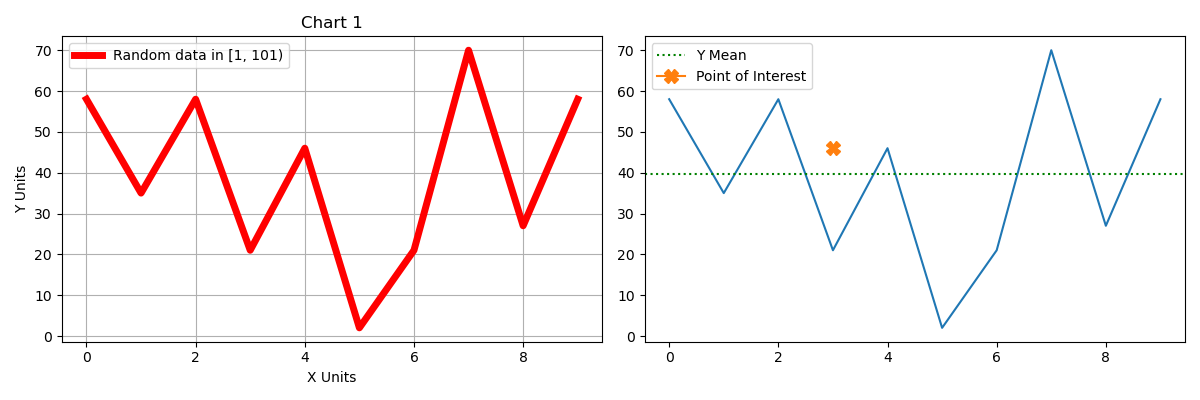
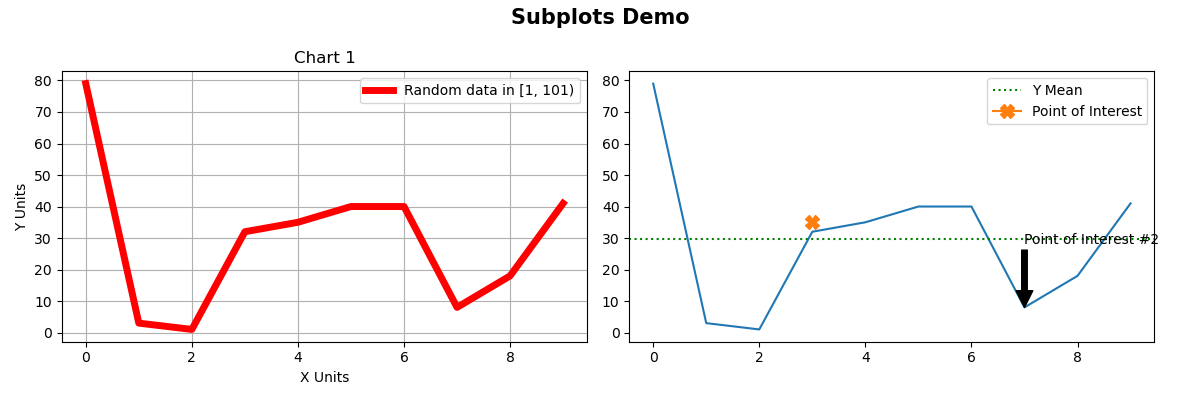
tuesday warmup task

diff --git a/plotting_demo_s2.py b/plotting_demo_s2.py
@@ -14,6 +14,8 @@ def plot_data(x, y):
     # let's have 2 charts in one "figure"
     # the 2 charts will be side by side in one row
     fig, axes = plt.subplots(1, 2, figsize=(12, 4)) # 12" width x 4" height
+    # tuesday 11/17 warm-up task #1
+    fig.suptitle("Subplots Demo", fontsize=15, fontweight="bold")
 
     # chart 1: basic
     ax = axes[0]
@@ -29,6 +31,9 @@ def plot_data(x, y):
     ax = axes[1]
     ax.plot(x, y)
     ax.plot([x[4]], y[4], label="Point of Interest", marker="X", ms=10)
+    # tuesday 11/17 warm-up task #2
+    ax.annotate("Point of Interest #2", xy=(x[7], y[7]), 
+                xytext=(x[7], y[7] + 20), arrowprops={"facecolor": "black"})
     ax.axhline(y.mean(), color="cyan", lw=5, ls="--", label="Y Mean")
     ax.legend()
 

diff --git a/plotting_demo_s1.py b/plotting_demo_s1.py
@@ -13,6 +13,8 @@ import matplotlib.pyplot as plt
 def plot_data(x, y):
     # let's have one figure with 2 charts in a row
     fig, axes = plt.subplots(1, 2, figsize=(12, 4)) # 12" width x 4" height
+    # tuesday 11/17 warm-up task #1
+    fig.suptitle("Subplots Demo", fontsize=15, fontweight="bold")
 
     # chart 1: basic
     ax = axes[0]
@@ -29,6 +31,9 @@ def plot_data(x, y):
     ax.plot(x, y)
     ax.axhline(y.mean(), label="Y Mean", ls=":", color="green")
     ax.plot(x[3], y[4], marker="X", ms=10, label="Point of Interest")
+    # tuesday 11/17 warm-up task #2
+    ax.annotate("Point of Interest #2", xy=(x[7], y[7]), 
+            xytext=(x[7], y[7] + 20), arrowprops={"facecolor": "black"})
     ax.legend()
 
 
